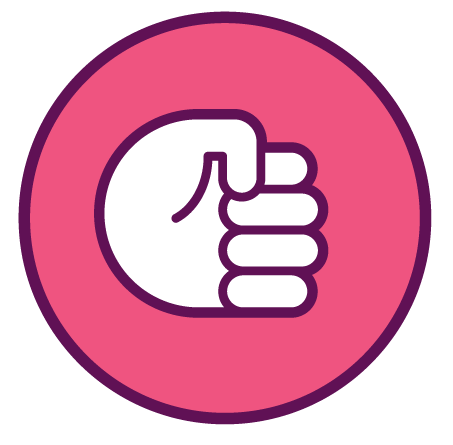
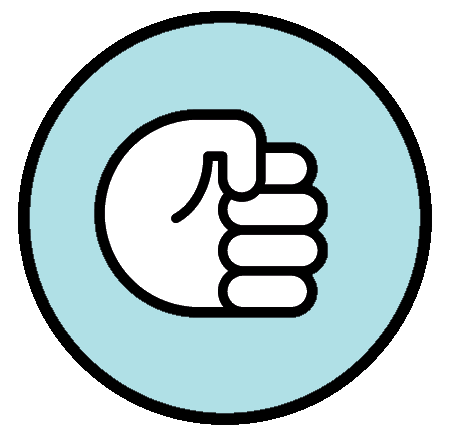
general update

diff --git a/styles.css b/styles.css
@@ -1,0 +1,103 @@
+* {
+    font-family: 'Roboto Mono', monospace;
+    margin: 0;
+    padding: 0;
+    box-sizing: border-box;
+}
+
+header {
+    color: rgb(40, 40, 40);
+    background: powderblue;
+    padding: 20px;
+    text-align: center
+}
+
+body {
+    color: whitesmoke;
+    background-color: rgb(40, 40, 40);
+}
+
+footer {
+    width: 100%;
+    position: fixed;
+    bottom: 0;
+    color: rgb(40, 40, 40);
+    padding: 8px;
+    text-align: center;
+    background-image: linear-gradient(to bottom, rgb(40, 40, 40), rgba(176, 224, 230, 0.664));
+}
+
+.scoreboard {
+    margin: 20px auto;
+    border: 3px solid powderblue;
+    width: 200px;
+    border-radius: 6px;
+    text-align: center;
+    padding: 15px 15px;
+    font-size: 46px;
+    position: relative;
+}
+
+.badge {
+    background: whitesmoke;
+    color: rgb(40, 40, 40);
+    font-size: small;
+    padding: 2px 10px;
+}
+
+#user_label {
+    position: absolute;
+    top: 50%;
+    -ms-transform: translateY(-50%);
+    transform: translateY(-50%);
+    left: -25px;
+}
+
+#machine_label {
+    position: absolute;
+    top: 50%;
+    -ms-transform: translateY(-50%);
+    transform: translateY(-50%);
+    right: -40px;
+}
+
+.result {
+    font-size: x-large;
+    text-align: center;
+}
+
+.choices {
+    margin-top: 50px;
+    text-align: center;
+}
+
+.choice {
+    display: inline-block;
+    padding: 10px;
+    opacity: 0.6;
+    transition-duration: 0.4s;
+}
+
+.choice:hover {
+    cursor: pointer;
+    transition-duration: 0.4s;
+    opacity: 1;
+    transform: rotate(deg);
+}
+
+.choice:active {
+    transform: rotate(-45deg);
+    transition-duration: 0.1s;
+}
+
+img {
+    height: 20%;
+    width: auto;
+}
+
+#action_message {
+    text-align: center;
+    font-size: large;
+    font-weight: bold;
+    margin: 20px;
+}

diff --git a/index.html b/index.html
@@ -2,16 +2,17 @@
     <head>
         <meta charset="utf-8">
         <meta name="description" content="Come Play!">
-        <title>Rock Paper Scissors</title>
+        <meta name="author" content="Rhys Alexander">
+        <meta name="viewport" content="width=device-width, initial-scale=1.0">
         <link rel="stylesheet" href="styles.css">
         <link rel="shortcut icon" href="images/favicon.ico" type="image/ico">
+        <title>Rock Paper Scissors</title>
     </head>
-    <body style="background-color: papayawhip;">
+    <body>
         <header>
-            <h1 style="color: orangered;">Rock Paper Scissors</h1>
-            <a href="https://github.com/Gallahad072" target="_blank">check me out</a>
-            <nav></nav>
+            <h1>Rock Paper Scissors</h1>
         </header>
+
         <div class="scoreboard">
             <div class="badge" id="user_label">User</div>
             <div class="badge" id="machine_label">Machine</div>
@@ -32,5 +33,13 @@
             </div>
         </div>
         <p id="action_message">Make Your Move!</p>
+
+        <footer>
+            <p>
+                Developed by <a href="https://github.com/Gallahad072" target="_blank">Gallahad072</a>
+            </p>
+        </footer>
+
+        <script src="app.js"></script>
     </body>
 </html>
